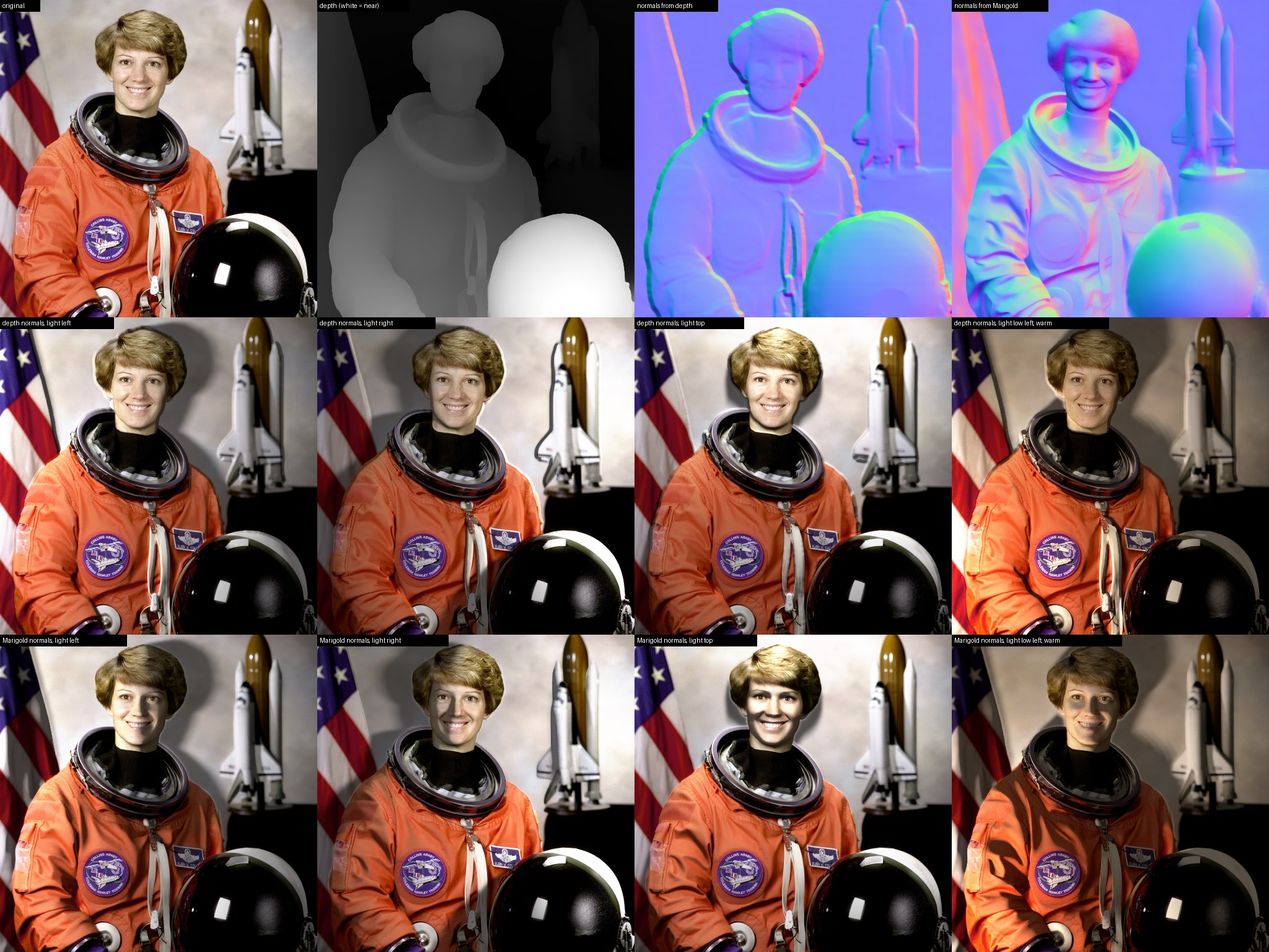
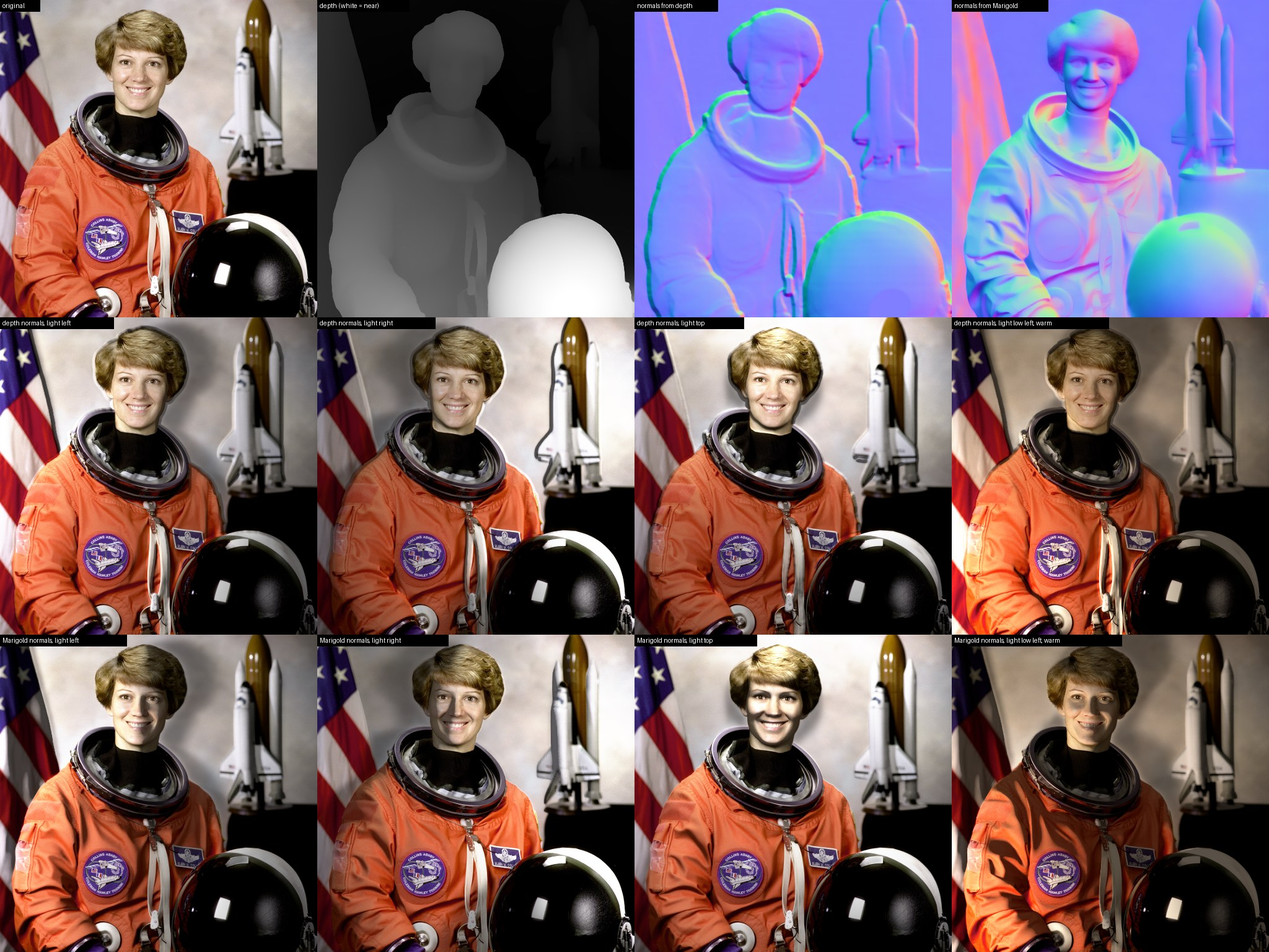
Regenerate the relight proof sheets with soft shadows; add the rocket

diff --git a/backend/scripts/proof_relight.py b/backend/scripts/proof_relight.py
@@ -72,5 +72,7 @@ def sheet(name: str, img: Image.Image) -> None:
 
 if __name__ == "__main__":
     R.estimate_normals(Image.new("RGB", (64, 64)))  # load the model so timings exclude it
-    for name, arr in [("portrait", data.astronaut()), ("object", data.coffee()), ("cat", data.chelsea())]:
+    # The rocket is the hard case for cast shadows: thin towers in front of a far night sky.
+    photos = [("portrait", data.astronaut()), ("object", data.coffee()), ("cat", data.chelsea()), ("rocket", data.rocket())]
+    for name, arr in photos:
         sheet(name, Image.fromarray(arr))
